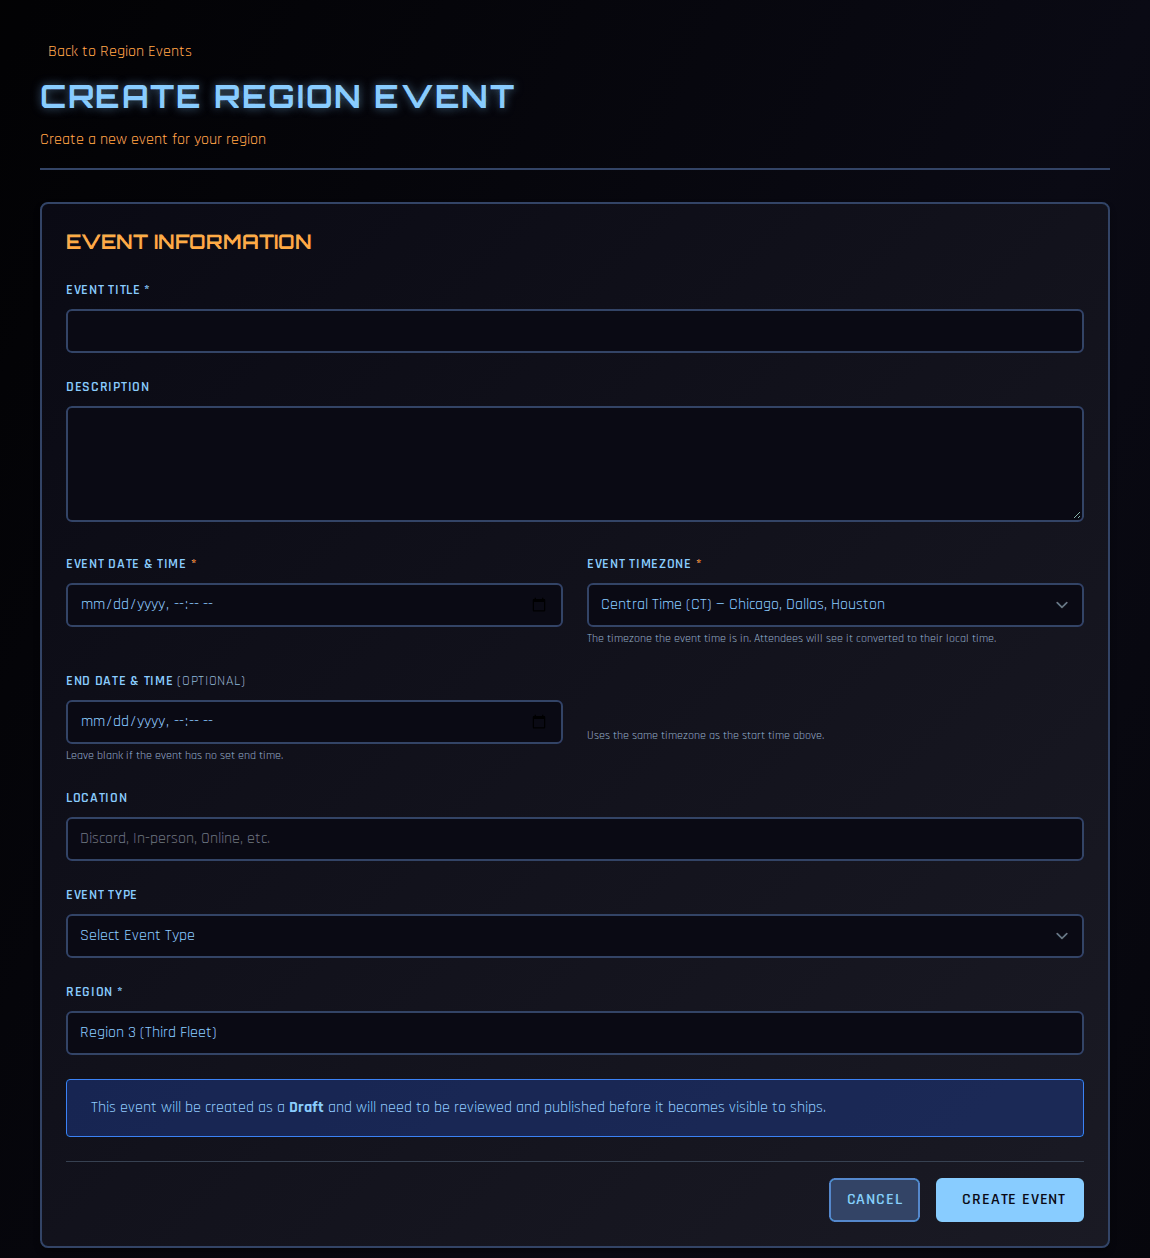
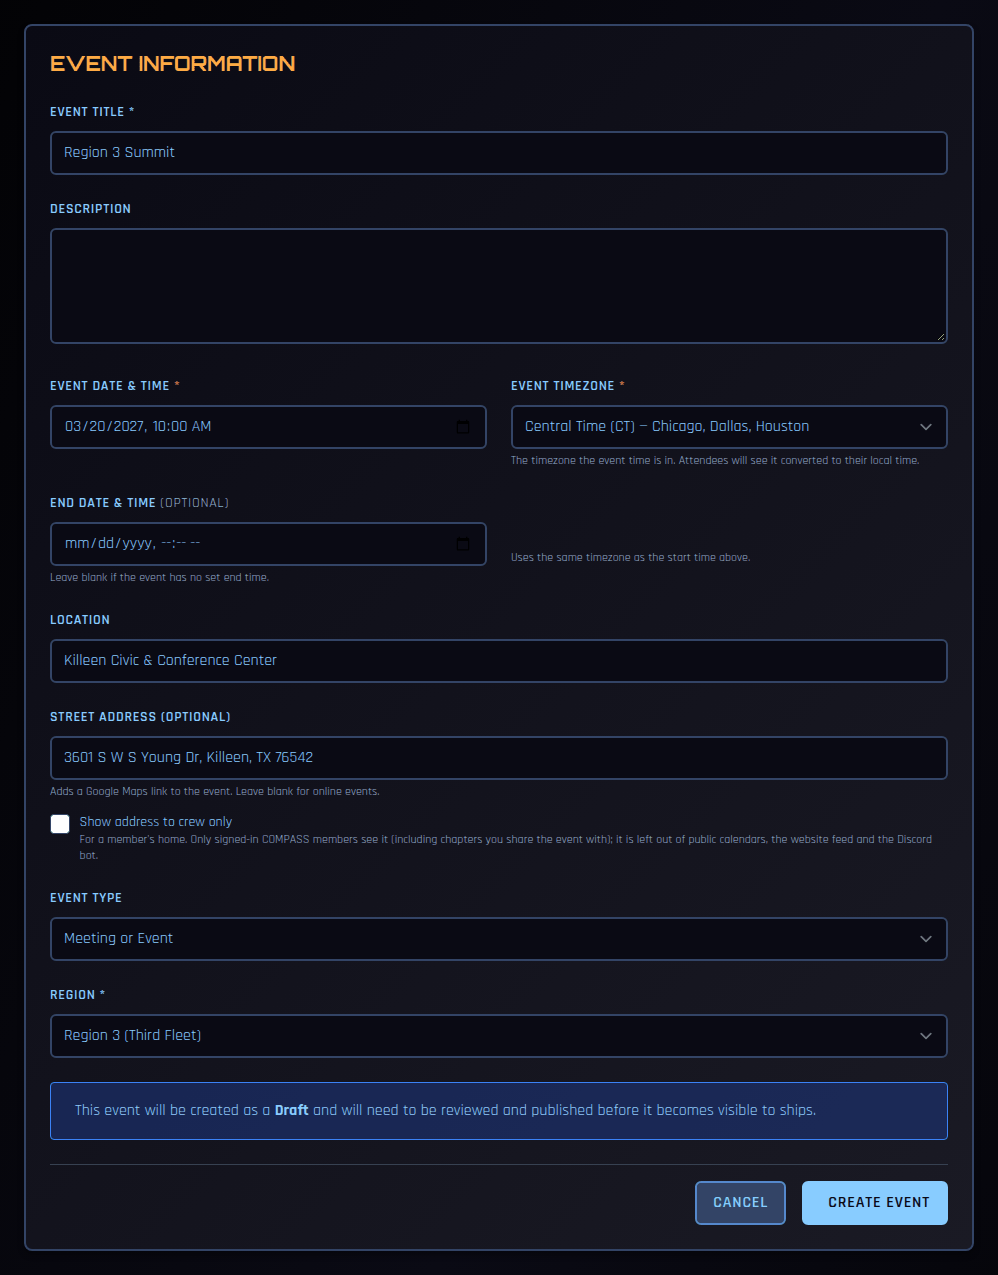
Wiki: event street address, map link and crew-only option
CO guide: new Location and Address section (two-part location, map
link, what crew-only covers, as a table) and change-notice rules for
address edits. Event sharing: shared events show the address, crew-only
included, and it stays crew-only on adopting ships. RC guide: Street
Address in the create form steps. Crew guide: address opens Google Maps;
address changes notify.

Screenshots: Events - Location and Address, Events - Address Map Link,
Event Share - Shared List Address (new); Region - Create Event (retaken).
Rendered from dev as Dustin Freeman with a sample Memorial Day event that
was rolled back; addresses are public places.

Claude-Session: https://claude.ai/code/session_01E6KKWaoNB45MUfA8vPQuhV

Changed region(s): [[0.0311, 0.031, 0.994, 0.9921], [0.4659, 0.558, 0.7144, 0.589]]

diff --git a/docs/co-guide/events.md b/docs/co-guide/events.md
@@ -24,13 +24,46 @@ Optional fields:
 
 - **Event Time** — Leave it blank for an **all-day** event. An all-day event shows only its date, with no time, everywhere in COMPASS and in calendar feeds. Enter a time and it is shown to each member in their own time zone.
 - **End Date / End Time** — For multi-day events such as conventions.
-- **Location** and **Description**
+- **Location** — the place's name, or Discord, Online and so on.
+- **Street Address** — adds a Google Maps link. Tick **Show address to crew only** for a member's home. See [Location and Address](#location-and-address).
+- **Description**
 - **Counts for Attendance Tracking** — Pre-set from the event type. Leave it on for events where you take attendance; turn it off for things like articles or recruiting credit.
 - **Event Visibility**
 - **Charity Amount Raised** — For charity events.
 - **Attendance** — For an event that has already happened, you can check off who attended right on the create form. You can also record it later.
 
 New events are created as **pending** and are approved by an officer who holds event-approval authority for the ship. Officers who can approve will see an **Approve Event** button on the event page.
+
+---
+
+## Location and Address
+
+An event's location has two parts:
+
+- **Location** — the place's name (*Central Texas State Veterans Cemetery*), or *Discord*, *Online* and so on.
+- **Street Address** — optional. Fill it in for an in-person event and the event gets a **Google Maps** link. On a phone the link opens the maps app. Leave it blank for online events.
+
+![Location, Street Address and the crew-only checkbox on the event form](../img/Events - Location and Address.png)
+
+On the event page the address appears under the location name. Click it to open the map.
+
+![An event page showing the address as a map link](../img/Events - Address Map Link.png)
+
+### Show address to crew only
+
+Tick **Show address to crew only** when the event is at a member's home, or anywhere else whose address shouldn't be public.
+
+| | Normal address | Crew-only address |
+|---|---|---|
+| Event page and calendar in COMPASS | ✅ Shown, with map link | ✅ Shown, with map link and a 🔒 note |
+| Chapters you [share the event with](event-sharing.md) | ✅ Shown | ✅ Shown — they are signed-in members too |
+| Your public calendar feed (iCal) and the website events feed | ✅ Included | ❌ Location name only |
+| The Discord bot | ✅ Included | ❌ Location name only |
+| Change notices sent to members | ✅ Included | ❌ Says *"(address updated)"* instead |
+
+The checkbox does nothing without an address.
+
+A repeating event uses the same address for every date in the series.
 
 ---
 
@@ -114,7 +147,8 @@ Events that count for attendance show an **RSVP** section, so crew can say wheth
 
 When a chapter event — single or repeating — **moves** (date, time, or switching to/from all-day), **changes location**, or is **cancelled**, every member who RSVP'd **Attending** or **Maybe** is notified automatically.
 
-- Renaming an event or editing its description does **not** notify anyone.
+- Changing the **street address** counts as a location change. If the address is crew-only, the notice says *"(address updated)"* rather than including it.
+- Renaming an event, editing its description, or ticking or unticking **Show address to crew only** on its own does **not** notify anyone.
 - Nobody is notified about a change they made themselves, and events already past are skipped.
 - A series edit that touches several dates a member RSVP'd to arrives as **one** message listing each changed date, not one message per date.
 - Members control this in their notification preferences under **Event Changes**.

diff --git a/docs/co-guide/event-sharing.md b/docs/co-guide/event-sharing.md
@@ -80,6 +80,12 @@ From **Events**, click **Shared Regional/Fleet Events**, then choose the **Share
 
 ![Shared events list showing a chapter-hosted event](../img/Event Share - Shared List.png)
 
+When the host chapter entered a street address, it appears beside the location as a Google Maps link.
+
+![A shared event with its address shown as a map link](../img/Event Share - Shared List Address.png)
+
+A **crew-only** address is shared too, since only signed-in COMPASS members see shared events. It stays crew-only on your copy, so your public calendar feed leaves it out. See [Location and Address](events.md#location-and-address).
+
 Each listing shows the hosting chapter, the date, and how many chapters have already added it. Open one and click **Add to \[Your Ship\]**.
 
 ### What happens when you add it
@@ -105,7 +111,7 @@ Added events appear on your Events list and calendar with a marker showing where
 
 ### Staying in sync
 
-If the host chapter changes the date, location, or details, your copy updates automatically. If you'd rather freeze your copy — say your chapter is doing a variation on the host's plan — open the event and turn off **auto sync**. Your copy then stops following the host's changes.
+If the host chapter changes the date, location, address, or details, your copy updates automatically. If you'd rather freeze your copy — say your chapter is doing a variation on the host's plan — open the event and turn off **auto sync**. Your copy then stops following the host's changes.
 
 ---
 

diff --git a/docs/crew/events-rsvp.md b/docs/crew/events-rsvp.md
@@ -15,6 +15,8 @@ Your next few events also appear under **Upcoming Events** on your [dashboard](i
 
 Open an event to see its details. Times are shown in your time zone; an all-day event shows only its date.
 
+If the event has a street address, it appears under the location. Click it to open Google Maps (on a phone, your maps app).
+
 ![An event page](../img/Crew Guide - Event.png)
 
 ---
@@ -46,7 +48,7 @@ Your RSVP tells your command team who to expect. **It doesn't earn points.** Aft
 If you RSVP'd **Attending** or **Maybe**, COMPASS tells you when the event:
 
 - **moves** — a new date or time, or switching to or from all-day
-- **changes location**
+- **changes location** or address
 - **is cancelled**
 
 Renaming an event or editing its description doesn't send a notice, and nothing is sent for events that have already happened.

diff --git a/docs/rc-guide/events.md b/docs/rc-guide/events.md
@@ -44,6 +44,7 @@ It lists upcoming events, plus any from the last 24 hours.
     - **Event Date & Time**, and the **Event Timezone** that time is in. Each attendee sees it converted to their own time zone.
     - **End Date & Time** — optional; uses the same time zone.
     - **Location** — a place, or Discord, Online and so on.
+    - **Street Address** — optional; adds a Google Maps link to the event. Tick **Show address to crew only** if it's someone's home: the address is then left out of public calendars, the website feed and the Discord bot. See [Location and Address](../co-guide/events.md#location-and-address).
     - **Event Type** — this sets the points chapters' crew earn for attending.
     - **Region** — your region.
 3. Click **Create Event**.
